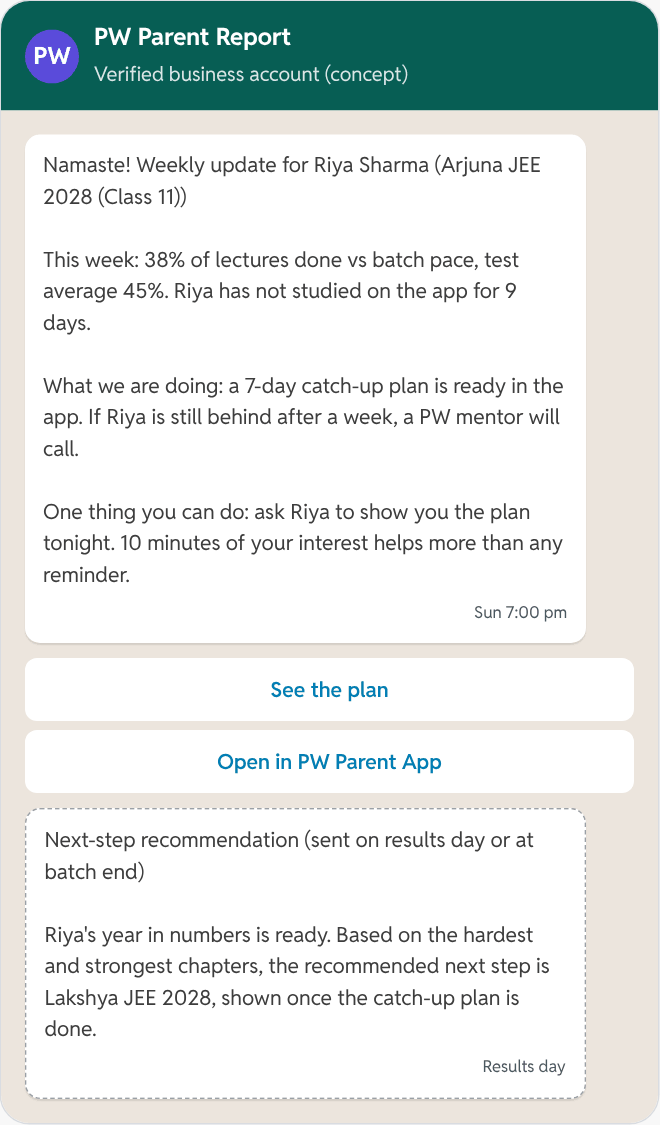
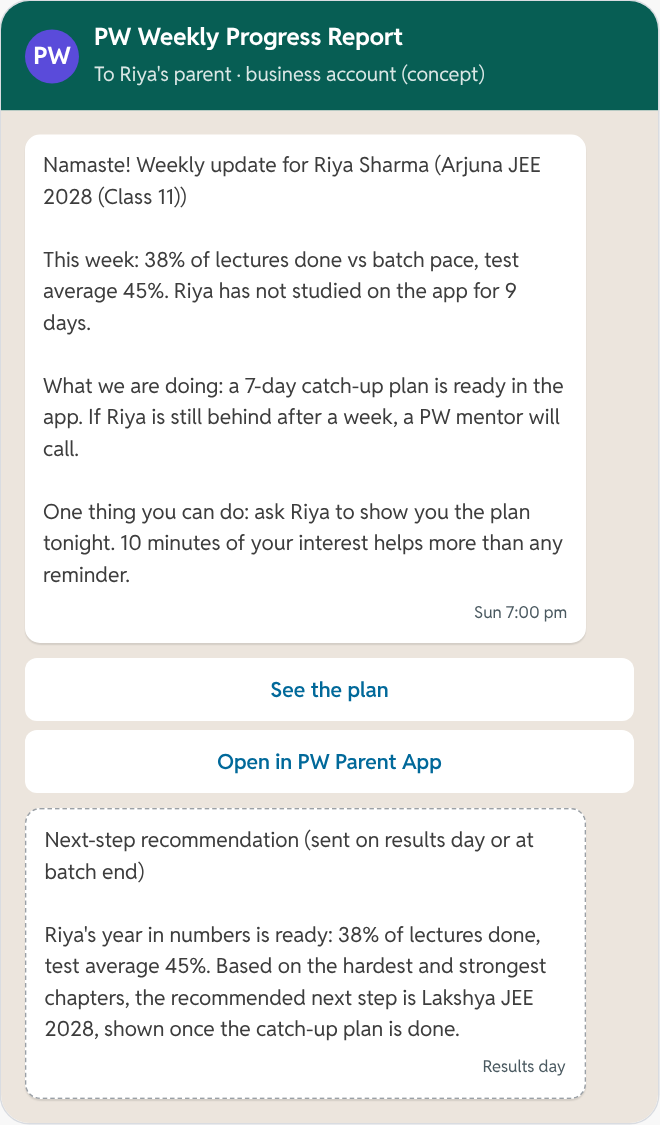
PW study: recapture the three screenshots from the current prototype
Phones and tablets see these instead of the live prototype. They showed the
old plan, "Parent report alert", one final-year row and "Fees won back".
Now: the backlog-sized plan in Tracker 360, the split final-year rows,
"Extra fees", and the full price note under the dashboard maths. Height
attributes updated to the new sizes.

Claude-Session: https://claude.ai/code/session_01EmR2EkjyiFohUFTsKASpxN

diff --git a/pw-study/index.html b/pw-study/index.html
@@ -473,9 +473,9 @@ footer h3{color:#fff}
       <div class="hero-ctas" style="margin-top:6px"><a class="btn btn-primary" href="/pw-study/prototype">Open full screen</a></div></div>
     <iframe class="proto-frame" src="/pw-study/prototype?embed=1" title="Learner Retention Engine working prototype" loading="lazy"></iframe>
     <div class="shots mob-only">
-      <figure><img src="/pw-study/img/student.png" alt="Prototype student app: on-track score, 7-day catch-up plan, AI Mentor chat, a next-step recommendation with no price for an under-18, and the drop-off risk score with its reasons" loading="lazy" width="2136" height="2492"><figcaption>Student app: a plan, not a warning</figcaption></figure>
+      <figure><img src="/pw-study/img/student.png" alt="Prototype student app: on-track score, 7-day catch-up plan, AI Mentor chat, a next-step recommendation with no price for an under-18, and the drop-off risk score with its reasons" loading="lazy" width="2136" height="2584"><figcaption>Student app: a plan, not a warning</figcaption></figure>
       <figure><img src="/pw-study/img/pulse.png" alt="Weekly Progress Report on WhatsApp, sent to a parent of a 16-year-old" loading="lazy" width="660" height="1125"><figcaption>Weekly Progress Report, to the right person</figcaption></figure>
-      <figure><img src="/pw-study/img/console.png" alt="Renewals Dashboard action table grouping learners by risk and age, with the extra fees each group is expected to bring in" loading="lazy" width="1061" height="1223"><figcaption>Renewals Dashboard: the Monday screen</figcaption></figure>
+      <figure><img src="/pw-study/img/console.png" alt="Renewals Dashboard action table grouping learners by risk, age and final year, with the extra fees each group is expected to bring in and the maths for the selected group" loading="lazy" width="1061" height="1461"><figcaption>Renewals Dashboard: the Monday screen</figcaption></figure>
     </div>
   </div>
 </section>
